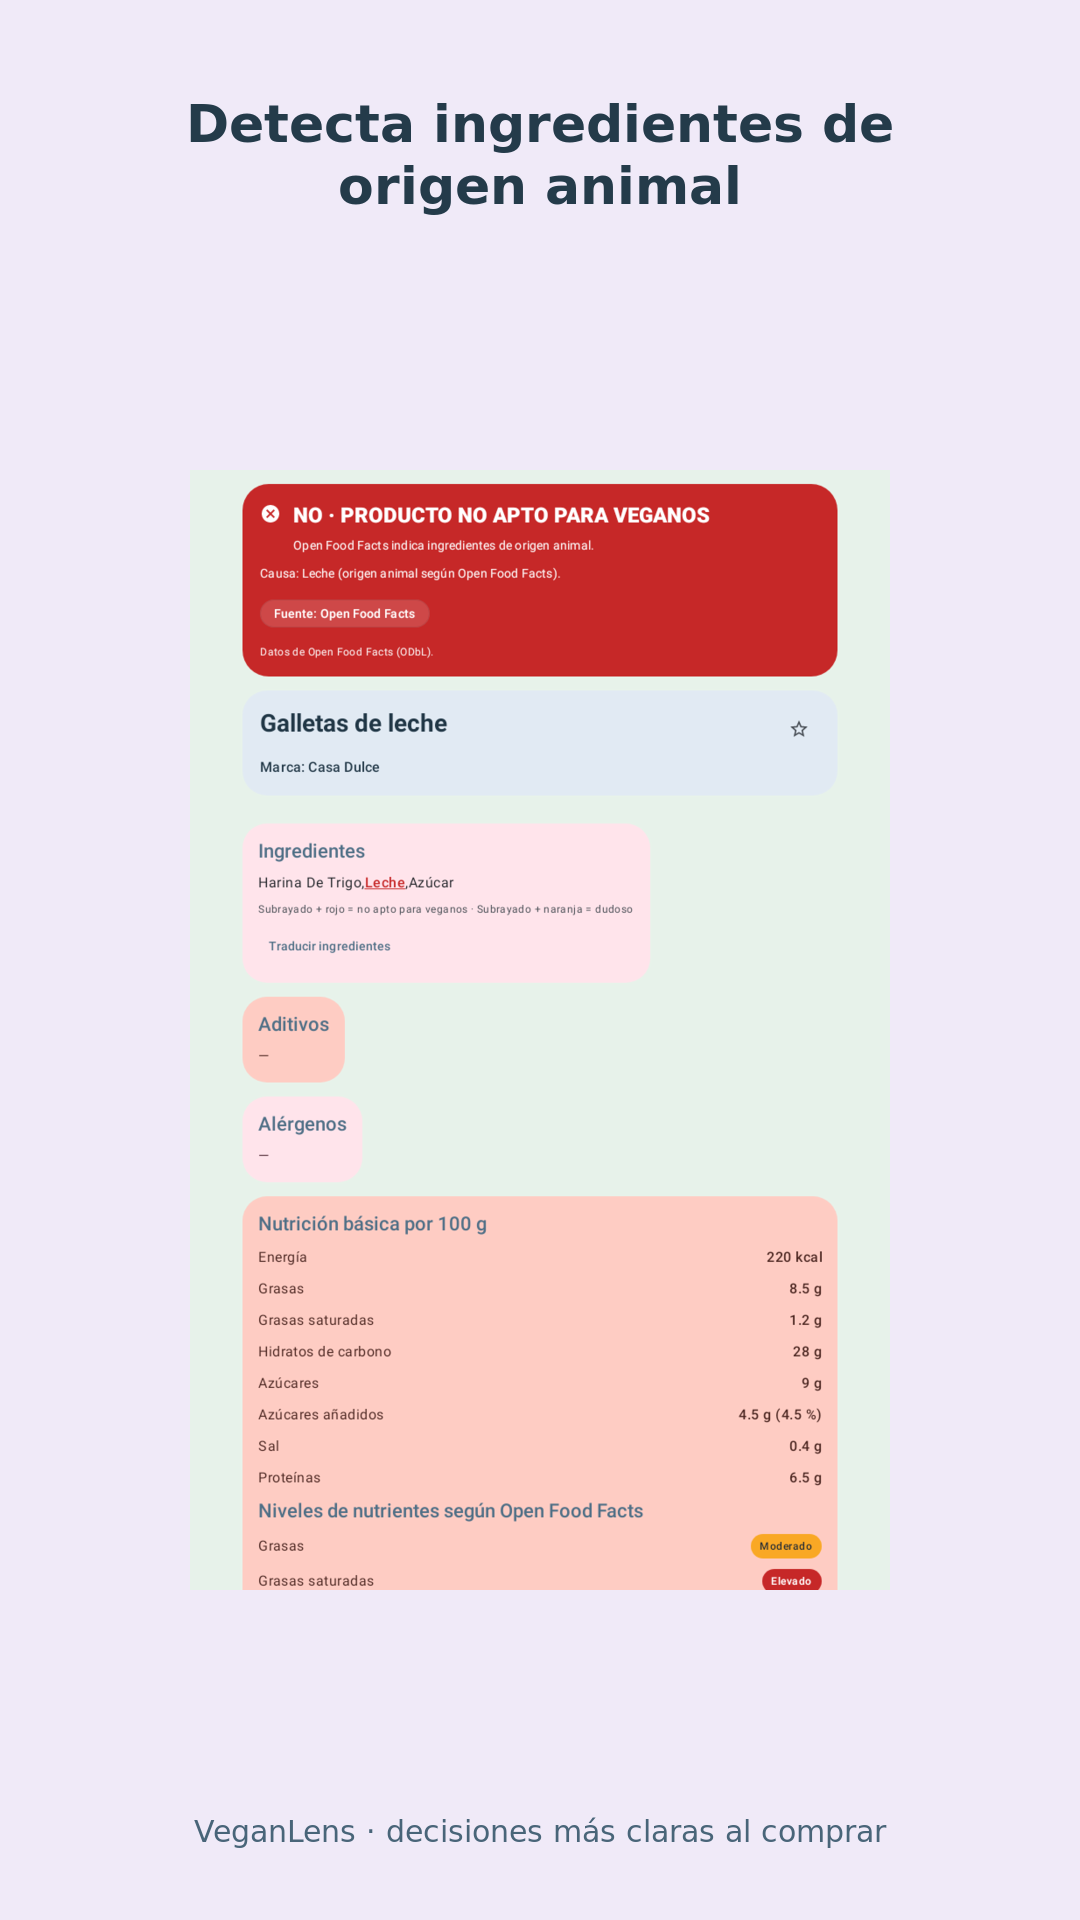
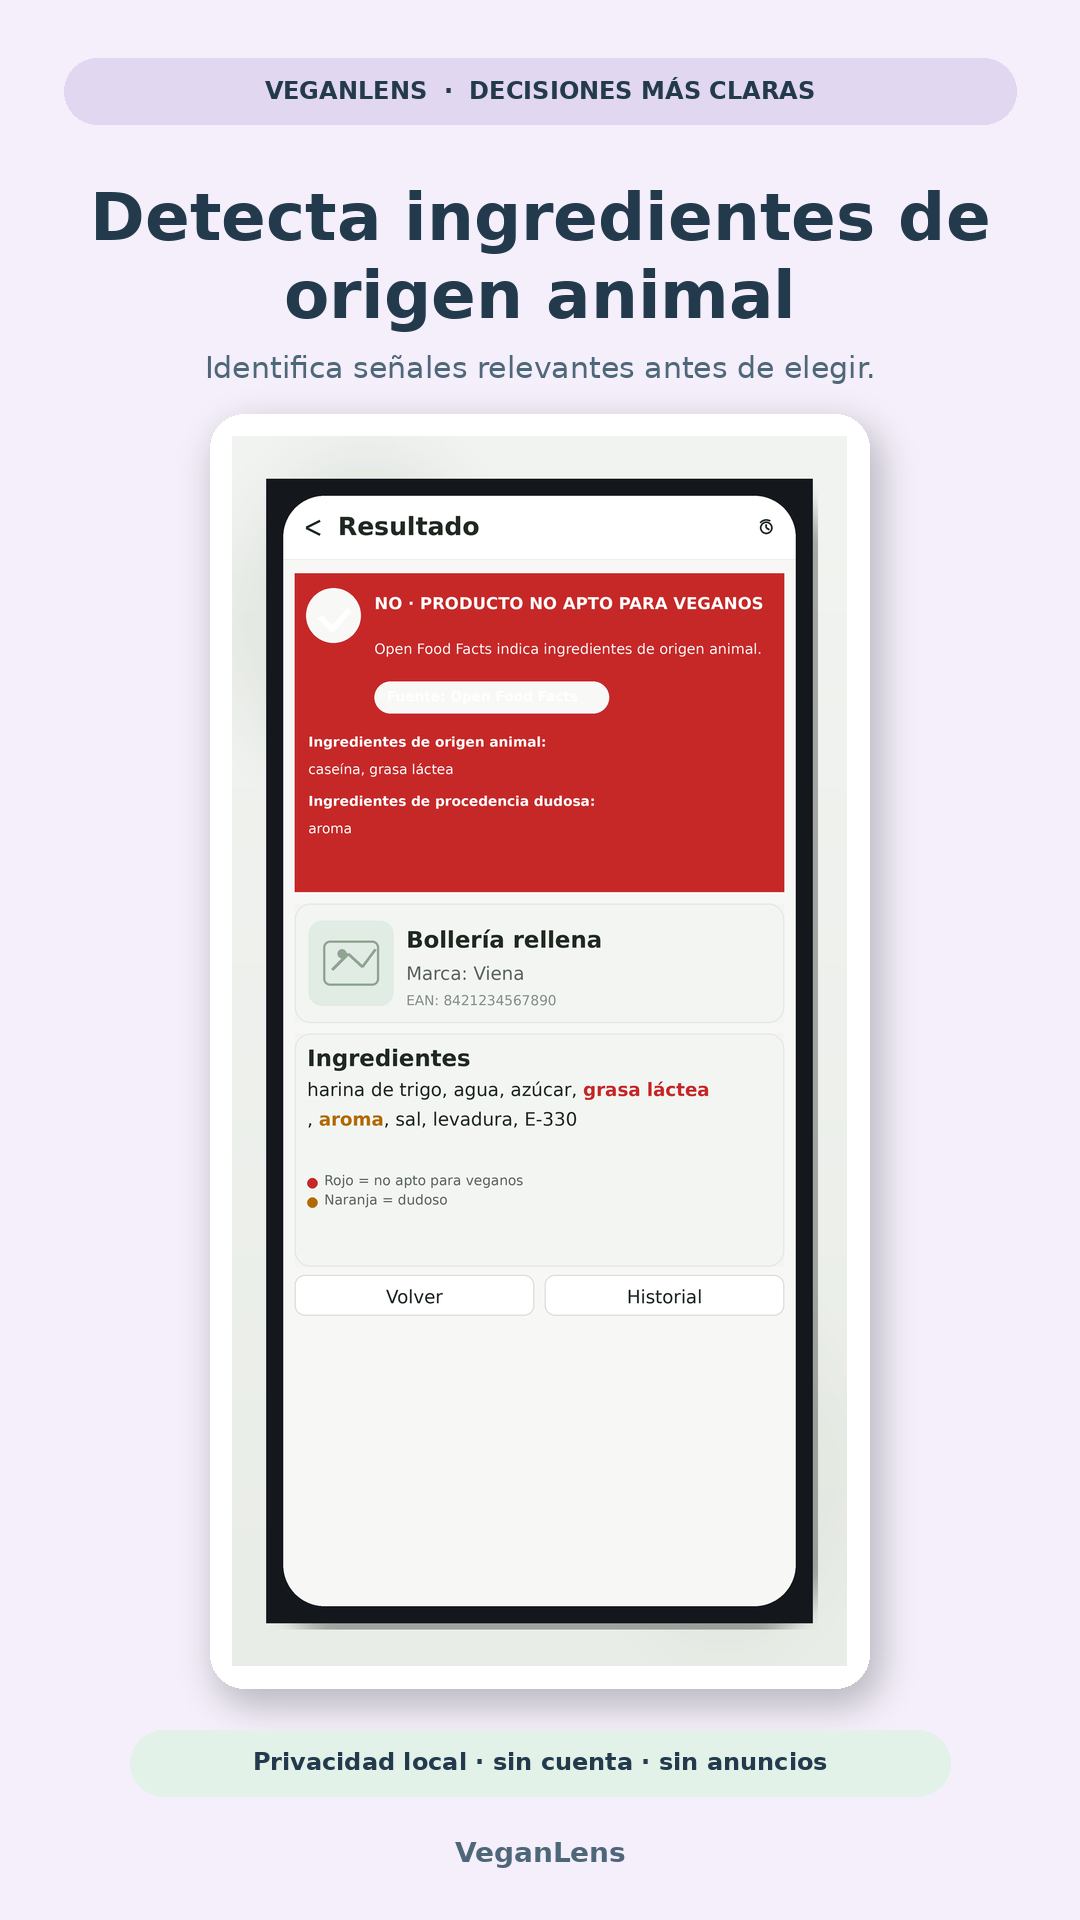
Refresh iOS store screenshots with promotional layout (#102)

Changed region(s): [[0.1833, 0.2188, 0.825, 0.9688], [0.0917, 0.0312, 0.9167, 0.2188]]

diff --git a/CHANGELOG.es.md b/CHANGELOG.es.md
@@ -10,6 +10,9 @@ versión para que App Store Connect pueda ofrecer notas en los dos idiomas.
 
 ## [Sin publicar]
 
+### Cambiado
+- Las capturas de tienda de iOS usan ahora una composición más promocional, con beneficios más claros, mejor jerarquía y un mensaje de privacidad coherente.
+
 ### Añadido
 - Los análisis de productos muestran ahora una confianza explícita alta, media o baja.
 - Un flujo experimental separado de foto de plato muestra alimentos probables y un rango calórico deliberadamente amplio.

diff --git a/CHANGELOG.md b/CHANGELOG.md
@@ -8,6 +8,9 @@ version so that App Store Connect can provide notes in both languages.
 
 ## [Unreleased]
 
+### Changed
+- The iOS store screenshots now use a more promotional layout with clearer benefits, stronger hierarchy, and consistent privacy messaging.
+
 ### Added
 - Product analyses now expose explicit high, medium, or low confidence.
 - A separate experimental dish-photo flow reports probable visible foods and a deliberately broad calorie range.
